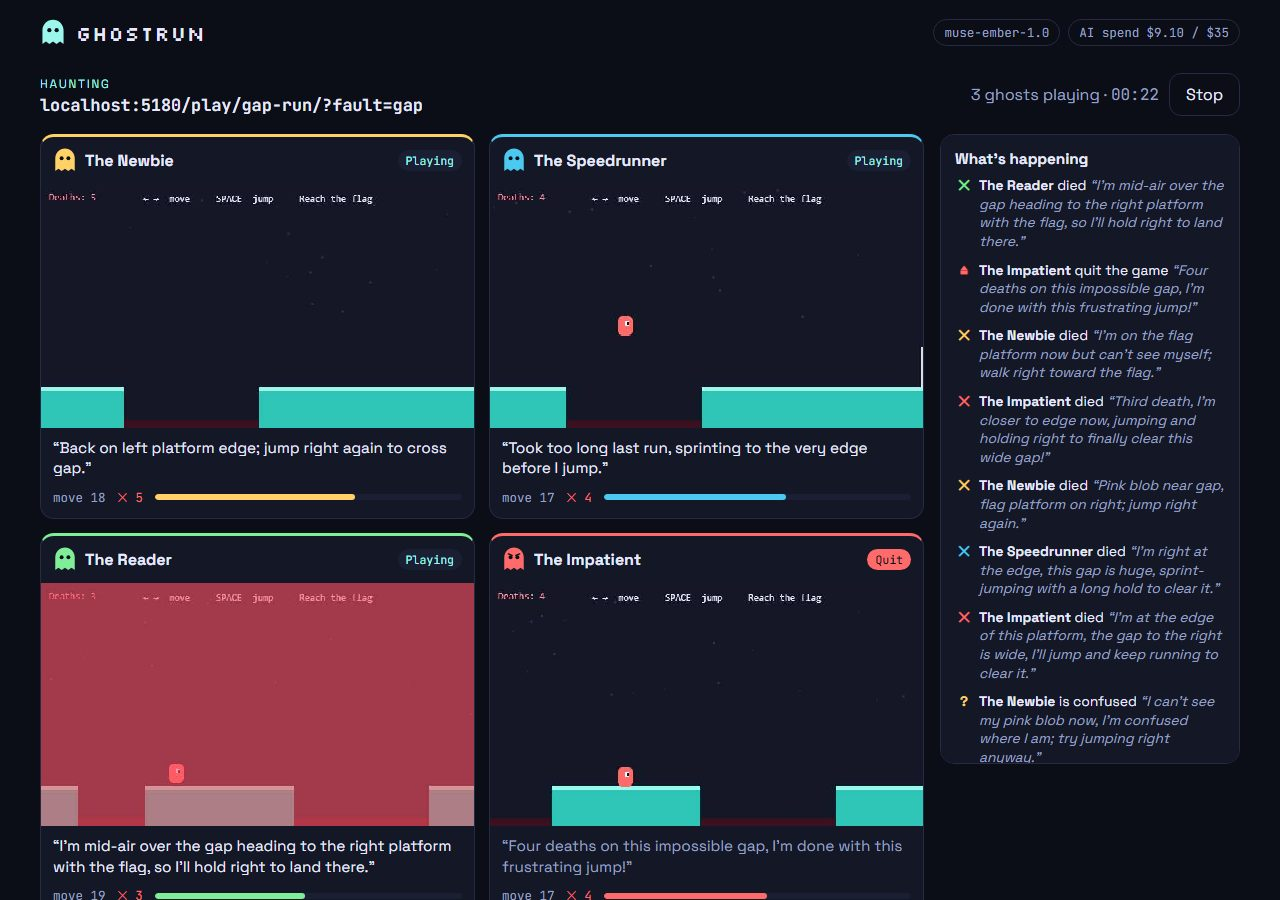
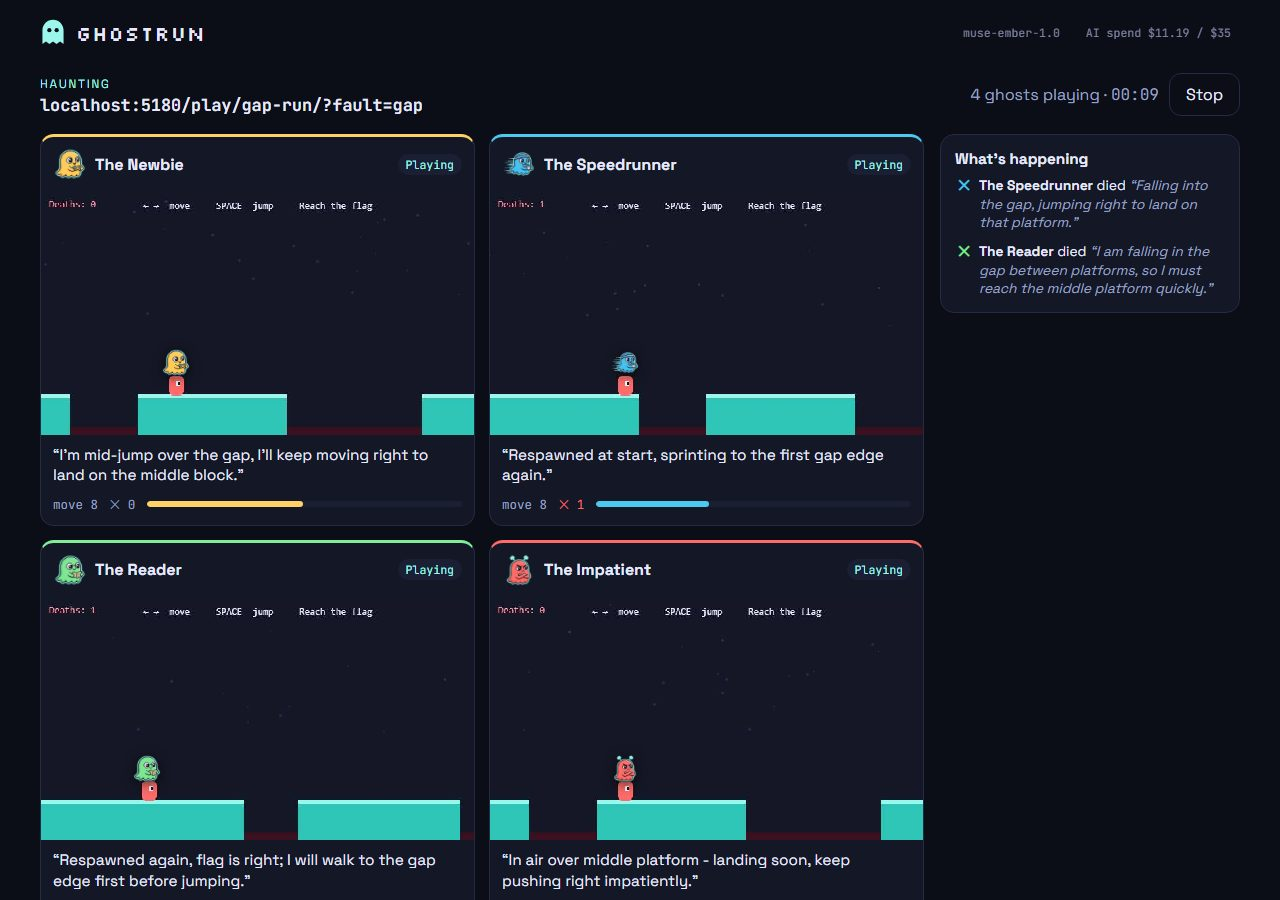
Docs: five benchmark rounds and nine real jam games by other people
- README and benchmark: five rounds, 44/50 flaws found and 0/50 false
  alarms; held out, 26/30 and 0/30.
- outside-games.md: what the ghosts reported on nine js13kGames entries
  against what their players wrote, and the five Ghostrun bugs they exposed.
- ai-review-log: the Muse art, the play analysis, the scout and the design
  review agents.
- failure-handling: real games. New gallery from the current version.

diff --git a/README.md b/README.md
@@ -32,26 +32,27 @@ It is not a small group: the GMTK Game Jam 2025 alone received [more than 9,500 
 
 ## Does it work? (measured, not claimed)
 
-Five small web games, each with a clean version and a version with one planted design flaw whose type and place we know ([benchmark](bench/README.md)), played in three rounds of 20 runs. We changed rules after looking at the first two rounds, so the honest test is the third: played afterwards, and not used to tune anything.
+Five small web games, each with a clean version and a version with one planted design flaw whose type and place we know ([benchmark](bench/README.md)), played in five rounds of 20 runs. We changed the scoring and analysis rules after looking at the first two rounds, so the honest test is rounds 3 to 5: played afterwards, and not used to tune those rules. Rounds 4 and 5 also use the latest ghosts, which play better ([below](#how-the-ai-is-used)).
 
-| | Third round (held out) | All three rounds |
+| | Rounds 3–5 (held out) | All five rounds |
 |---|---|---|
-| Planted flaws found: a critical finding of the right type in the right place | **9/10** | 27/30 (21 from what the ghosts did, 6 from the contrast measurement) |
-| Clean games with a false alarm: the same kind of finding where there is no flaw | **0/10** | 0/30 |
-| Clean games where the report still shows a hard spot ("friction": ghosts died there but got past; counted neither way) | 6/10 | 18/30 |
-| Ghosts that finished the clean games | 78% | 75% |
+| Planted flaws found: a critical finding of the right type in the right place | **26/30** | 44/50 (34 from what the ghosts did, 10 from the contrast measurement) |
+| Clean games with a false alarm: the same kind of finding where there is no flaw | **0/30** | 0/50 |
+| Clean games where the report still shows a hard spot ("friction": ghosts died there but got past; counted neither way) | 17/30 | 29/50 |
+| Ghosts that finished the clean games | 75% | 75% |
 
-- **Cost and time per playtest** (4 ghosts and the analyst): about $0.02 and under a minute on these games (41 s on average; the maze takes about a minute).
+- **Cost and time per playtest** (4 ghosts and the analyst): about $0.02 and under a minute on these games (about 45 s on average; the maze takes about a minute).
 - **People vs ghosts:** every spot where a person died or got stuck was also flagged by the ghosts, 4/4 (2 of them only as friction). One person, the developer, not blind ([details](bench/README.md#people-vs-ghosts)).
 
-One rule decides "found" and "false alarm", so neither can be bought with the other: only critical findings count. "Friction" counts neither way, because it also shows up on clean games at hard but fair spots, and the report labels it as probably fair. The miss of each round is Spike Maze's invisible spikes, which the ghosts reported only as friction. Decided after looking at the first two rounds: counting only critical findings ([why](bench/README.md#the-scoring-rule-we-changed-after-a-review)), the contrast check with our own 1.5:1 line for "practically invisible" (the faint key measures 1.09:1), and treating the deaths at both edges of one wide gap as one spot. With so few runs the uncertainty is wide: 27/30 means 74–97% and 0/30 false alarms means at most 11% (95% intervals).
+One rule decides "found" and "false alarm", so neither can be bought with the other: only critical findings count. "Friction" counts neither way, because it also shows up on clean games at hard but fair spots, and the report labels it as probably fair. The misses are Spike Maze's invisible spikes, which the ghosts sometimes reported only as friction (one run in most rounds, both runs in round 4). Decided after looking at the first two rounds: counting only critical findings ([why](bench/README.md#the-scoring-rule-we-changed-after-a-review)), the contrast check with our own 1.5:1 line for "practically invisible" (the faint key measures 1.09:1), and treating the deaths at both edges of one wide gap as one spot. With so few runs the uncertainty is wide: 26/30 means 70–95% and 0/30 false alarms means at most 11%; over all 50, 76–94% and at most 7% (95% intervals).
 
 | Case | What happened |
 |---|---|
-| Normal: Gap Run, one gap too wide to jump | Blocker at that gap in 6/6 runs (three rounds) |
-| Normal: Key Hunt, key drawn in the floor colour | "Hard to see" (contrast 1.09:1) in 6/6 runs |
-| Repeat: the same 10 variants, played in three separate rounds | 9/10 flaws and 0/10 false alarms in each round (the same miss) |
+| Normal: Gap Run, one gap too wide to jump | Blocker at that gap in 10/10 runs (five rounds) |
+| Normal: Key Hunt, key drawn in the floor colour | "Hard to see" (contrast 1.09:1) in 10/10 runs |
+| Repeat: the same 10 variants, played in five separate rounds | 9/10 flaws in four rounds and 8/10 in one, with 0/10 false alarms in every round |
 | Hard: [NILO](games/third-party/nilo/README.md), a real jam game we did not make, unmodified, no SDK | The ghosts got through its mouse-only menu by themselves, and all four got stuck at the start of level 1. A person confirmed half the diagnosis: the controls are confusing, but the jump was not too hard ([partial success](bench/README.md#hard-case-a-real-jam-game-we-did-not-make)) |
+| Harder: 9 more real jam games by other people (js13kGames), no SDK, compared with what their players wrote | The ghosts agreed with the players in 5 of 9 (1 match, 4 partial), disagreed in 2, failed where people did not in 1 and missed 1 ([table](bench/results/outside-games.md)). They also exposed five Ghostrun bugs, now fixed |
 
 ![A finding card: the key is too faint against the background, with the measured contrast and a replay](docs/img/report-hard-to-see.jpg)
 
@@ -73,10 +74,11 @@ One rule decides "found" and "false alarm", so neither can be bought with the ot
 | **Measure the contrast of objectives** (AI eyes saw a 1.09:1 key that a person could barely see) | The faint-key flaw was missed 4/4 | Found 4/4, no new false alarm when 90 recorded runs (45 of them clean) were re-scored |
 | **Prompt built for Meta's prompt cache**: stable part first, append-only move log, a shared `prompt_cache_key` | 48% of the input served from cache | 70% (cached input costs 25× less) |
 | **Stop a ghost once it has shown enough** (8 deaths at one spot, or 20 moves without new ground) | — | 15% fewer moves on replayed runs, same flaws found |
+| **Teach the ghost how its actions work**: a tap happens at the start of the move, so walk to the edge first and jump next; in a new game, try one key at a time (from an analysis of 5,761 recorded moves) | 16 deaths per clean Gap Run run: 69% of deaths at fair gaps were jumps started too early | 5 per run, the same flaws found (17/20) and no false alarm (0/20), for 4% more cost |
 
 Together, these made a run 17% cheaper for the ghosts and the analyst's cards 47% cheaper, about 25% less per playtest. We also report what we rejected: smaller screenshots (8% cheaper, worse perception), not asking the ghost for its position (13% cheaper, but twice the deaths next to hazards), shorter memory, stricter stops ([tried and rejected](bench/README.md#cheaper-and-better-ghosts)).
 
-**In development.** Ghostrun was built with heavy AI assistance: Claude Code wrote most of the code and documentation under Rafael's direction, and Claude subagents built four of the five test games. Where a person checked AI-made work, what was found and what changed is logged in the [AI review log](docs/ai-review-log.md). For example, a person's review of a real game (R5) showed that a card blamed a platform that was easy to reach, so every card now states its confidence and whether ghost skill could explain it.
+**In development.** Ghostrun was built with heavy AI assistance: Claude Code wrote most of the code and documentation under Rafael's direction, and Claude subagents built four of the five test games. The ghost characters and the two illustrations in the interface were drawn with Meta's image model (`muse-image-1.0`), in a style Rafael chose from five sketches. Where a person checked AI-made work, what was found and what changed is logged in the [AI review log](docs/ai-review-log.md). For example, a person's review of a real game (R5) showed that a card blamed a platform that was easy to reach, so every card now states its confidence and whether ghost skill could explain it.
 
 ## How it is built
 
@@ -130,6 +132,7 @@ Then pick "No game handy? Try ours" on the home page, or paste any web game's li
 
 - **Real:** the ghosts play in real browsers with real model calls; nothing in a run is scripted. Costs come from the usage Meta reports, cached tokens included.
 - **Ours:** the five test games and their planted flaws, so results can be checked against a known answer. They were written with AI help and checked by a person (reviews R1–R2). NILO is a real third-party game, unmodified.
+- **AI-generated art:** the five ghost characters and the two illustrations (error and all-clear) were made with Muse Image. The screenshots in this README and in the reports are real.
 - **Simulated, and labelled:** the "simulate an AI outage" test option, which shows the switch to a backup model. It is off in the public demo.
 - **Small samples:** 2 repetitions per variant per round. The people-vs-ghosts comparison so far is one person (the developer), who had already seen the planted flaws. A blind test with new players is next.
 
@@ -139,6 +142,7 @@ Then pick "No game handy? Try ours" on the home page, or paste any web game's li
 - Ghosts **see faint shapes better than people**. Objectives the game declares are measured for contrast instead; undeclared ones are not.
 - They cannot tell intended difficulty from bad design. They show where players struggle; you decide.
 - Without the SDK, positions are what the ghosts report on screen, so in scrolling games the map is approximate.
+- **On games without the SDK, findings are leads, not verdicts.** On nine real jam games, the ghosts agreed with what players wrote in about half ([table](bench/results/outside-games.md)). With the SDK (our benchmark), they found 44 of 50 planted flaws with no false alarm.
 - **The written cause on a card is the least reliable part.** On recorded runs the analyst explained the too-wide gap correctly in 14 of 14 cards, but found the real cause of Read Me's flaw (instructions that name the wrong key) in only 6 of 12 cards ([every card](bench/results/analyst-blockers.md)). Trust the place, the numbers and the replay; read the cause as a guess to check.
 
 More in [the benchmark's limitations](bench/README.md#limitations).

diff --git a/bench/results/outside-games.md b/bench/results/outside-games.md
@@ -1,0 +1,34 @@
+# Real jam games made by other people (22 Nov 2026)
+
+Nine js13kGames entries, played at their public address (`https://play.js13kgames.com/<game>`), unmodified and without the Ghostrun SDK, so the ghosts only have the pixels. There is no planted flaw here, so no score: instead, we compare what the ghosts reported with what **real players wrote** on each game's js13kGames page (paraphrased; follow the links for their words). A scout agent found and checked the games and collected the comments; a person has not reviewed this table yet.
+
+Current version (the "rounds 4–5" ghosts), 4 ghosts × 40 moves each, about $0.02 per game ($0.21 for the nine).
+
+| Game (author, year, licence) | What players said | What the ghosts reported | Verdict |
+|---|---|---|---|
+| [Escape from Death Hole](https://js13kgames.com/entries/escape-from-death-hole) (Santi Herranz, 2022, MIT) | Missed the sword on level 1; a zombie took the key; wanted more hints at the start; movement felt slow | All four stuck in the dark starting area, not knowing how to get past the monster and leave | **Partial**: both point at an unclear start, but the ghosts never got as far as the sword or the key |
+| [SPACETAXI](https://js13kgames.com/entries/spacetaxi) (Christoph Schansky, 2021, GPL-3.0) | Felt broken until they understood you must land gently (touching a planet kills); wanted a tutorial | All four circled without knowing how to serve customers: "the game never explains it". In an earlier run: "the ship explodes on the planet with no way to continue" | **Match**: no tutorial, and crashing into planets |
+| [Find All Pages](https://js13kgames.com/entries/find-all-pages) (Stacks Hub, 2020, MIT) | Too many keys to remember; wanted a timer; only four levels | All four stuck: the grid never explains how to move | **Partial**: the controls are hard to grasp |
+| [Delete!](https://js13kgames.com/entries/delete) (Clocks-in-a-Cooler, 2020) | Deleting sometimes failed; instructions shown "the other way round"; unclear which feature is selected | Three stuck: could not work out the wall jump and the select-then-delete step | **Partial**: confusing instructions and delete step |
+| [Dead Again](https://js13kgames.com/entries/dead-again) (Jonas Olmstead, 2022, MIT) | Dying sends you back to level 1; unclear ammo and reload; the darkness | Three died and never got past the same spot (cause unclear) | **Weak partial**: dying is the pain point in both, for different reasons |
+| [Moon Buggy Racing](https://js13kgames.com/entries/moon-buggy-racing) (Johan Wigert, 2021) | One player got a black screen; others found the difficulty fine | A blocker: the starting rock field kills after every restart; "Space does not restart" | **No match** (and the restart claim is not checked) |
+| [Big Champ](https://js13kgames.com/entries/big-champ) (Bryan Perfetto, 2020) | Long recovery after a mistake makes the waves unfair; too hard with two characters | Knocked out with no way to restart | **No match** |
+| [Coiner](https://js13kgames.com/entries/coiner) (Hoai Phong, 2019) | The jump is too short to reach the coin quickly | All four never worked out the controls (none are shown on screen) | **Ghost limitation**: people learned the controls |
+| [Backout](https://js13kgames.com/entries/backout) (Emre Guneyler, 2019, MIT) | The arrow keys feel upside down; unclear why the ball slows | Nothing | **Miss** |
+
+**In short:** on games without the SDK, the ghosts' report agreed with real players in 5 of 9 games (1 match, 4 partial), disagreed in 2, failed where people did not in 1, and missed the players' complaint in 1. Read findings on such games as leads to check in the replay, not as verdicts. "Restart does not work" appeared in three games and may be the ghosts' own limit; the ghosts are now told to give game-over screens a second (not yet re-measured).
+
+## What these games broke in Ghostrun, now fixed
+
+Each one made the report blame the game for something that was our fault. All are covered by tests (`test/clicks.test.mjs`, `test/fit.test.mjs`).
+
+| Game | What happened | Fix |
+|---|---|---|
+| Big Champ | Every ghost clicked "Tap" and nothing happened; the report said the start screen never responds. Our clicks pressed and released the button before the game's next frame | A click keeps the button down for 90 ms of game time |
+| Dead Again | Refused as "no game canvas": it creates its canvas 1–3 s after loading | Wait up to 6 s of real time for a canvas |
+| Coiner, Delete!, Moon Buggy Racing, Escape from Death Hole | Their canvases are bigger than the 640×360 window: in Coiner the character was below the screen | Before playing, the game is opened once (no AI) and the window is enlarged to fit its canvas |
+| Big Champ | Its dark start screen with one word was judged "blank" | "Blank" now means barely bigger than an empty page of the same size |
+| Escape from Death Hole | The ghosts pressed Enter every half second while the game needed 1–3 s to start | Ghosts give a title, menu or game-over screen a second to change |
+| Several | Cards stated what the ghosts experienced as facts ("the start keys do nothing") | On games without the SDK, cards say what the ghosts could not do, with low confidence |
+
+Run ids: escape-from-death-hole 2026-11-22T12-47-42-834Z-8579dc64f3 · find-all-pages 2026-11-22T12-47-43-600Z-309a9df2cf · spacetaxi 2026-11-22T12-47-43-982Z-11489772c7 (earlier run 2026-11-22T12-19-05-820Z-545e282be7) · coiner 2026-11-22T12-47-44-000Z-44f669d650 · backout 2026-11-22T12-47-44-021Z-032a859c26 · dead-again 2026-11-22T12-54-58-206Z-c168c0332c · delete 2026-11-22T12-54-58-210Z-49bb01adc6 · moon-buggy-racing 2026-11-22T12-54-58-213Z-b6ae80d505 · big-champ 2026-11-22T13-00-00-127Z-55ad22e031 (after the blank-screen fix).

diff --git a/bench/README.md b/bench/README.md
@@ -48,6 +48,8 @@ Run it yourself: `npm run bench -- --label mine --reps 2` (needs `MODEL_API_KEY`
 | [optimized-v3-holdout](results/optimized-v3-holdout.md) | same code, **fresh runs** (8/10 by the ghosts alone), re-scored with the contrast check | **10/10** | **0/10** | $0.016 billed |
 | optimized-v3 + holdout, **strict rule** | same 40 runs, critical findings only, plus the analysis fixes found by test agents | **18/20** | **0/20** | — |
 | [optimized-v5](results/optimized-v5.md) | the same version, **fresh runs** played after those fixes, strict rule | **9/10** | **0/10** | $0.015 billed |
+| [optimized-v6](results/optimized-v6.md) | ghosts taught how their actions work ([below](#teaching-the-ghosts-how-their-actions-work)), fresh runs | **8/10** | **0/10** | $0.016 billed |
+| [optimized-v7](results/optimized-v7.md) | the same, plus "give a menu a second to change", fresh runs: **the current version** | **9/10** | **0/10** | $0.016 billed |
 
 "Billed" counts cached input at Meta's cached rate; earlier rows are list price (cached tokens were not recorded yet), so compare them with care. Measured with the cache, the old ghosts cost $0.018 per run, not $0.025.
 
@@ -67,6 +69,33 @@ On 21 November (night) we had the project reviewed by ten AI agents playing role
 Now one rule decides both "found" and "false alarm". The two misses are Spike Maze's invisible spikes, which the ghosts only reported as friction in one run of each round. The test agents also found three analysis bugs, fixed and covered by tests: a wide gap whose deaths split into two contradicting findings ("2/4 got past" next to "0/4 got past" for the same gap), ghosts that ended stuck attached to the wrong finding, and single deaths shown as findings. Re-scoring the 90 recorded runs with the fixes changed no result for the worse. A fresh round played after the fixes and not used to tune anything ([optimized-v5](results/optimized-v5.md)) found 9/10 flaws with 0/10 false alarms, like each earlier round, with the same miss. Across the three rounds: **27/30** found, **0/30** false alarms (`node bench/compare.mjs before-cache-v5 optimized-v3-gapfix+optimized-v3-holdout-gapfix+optimized-v5-gapfix`).
 
 Checking the new screenshots afterwards, we found that the merge for wide gaps also joined two neighbouring gaps into one finding: the run-up to the second gap starts where the first gap's area ends, so their areas touched. Now two areas are one place only if they overlap by at least a quarter of the smaller one (the two halves of one wide gap overlapped 54% and 89% in our runs; neighbouring gaps 1–10%). Re-scoring the three rounds with it ("-gapfix"): the same 27/30 and 0/30; in four Gap Run runs a finding that spanned two gaps became two findings.
+
+### Teaching the ghosts how their actions work
+
+On 22 November an analysis agent went through 5,761 recorded moves and 817 deaths (scripts in the review log). The ghosts knew where they were (median error 7 px), but misjudged how their actions work:
+
+- 69% of the deaths at the fair gaps of Gap Run were jumps started too early. A tapped key fires at the start of the move, but the ghosts expected it to wait until they reached the edge. Jumps prepared by a separate "walk to the edge" move crossed 72% of the time; jumps started while still running, 27%.
+- In Spike Maze, a maze with no jump, 28 of 58 fatal moves were planned jumps over spikes.
+- In games without the SDK (NILO), a respawn was never reported as a death.
+
+So the ghosts are now told that a tap happens at the start of the move (walk to the edge first, jump in the next move), to use only the controls the game shows, to try one key at a time in a game they do not know, to give a menu a second to change screens, and that being sent back to the start is a death. Two fresh rounds with these rules (`node bench/compare.mjs optimized-v5 optimized-v6+optimized-v7`):
+
+| | Before (round 3, 20 runs) | After (rounds 4–5, 40 runs) |
+|---|---|---|
+| Flaws found | 9/10 | 17/20 |
+| Clean runs with a false alarm | 0/10 | 0/20 |
+| Deaths per clean Gap Run run | 16 | 5 |
+| Deaths per run, all games | 13.9 | 11.1 |
+| Ghosts that finished the clean games | 78% | 74% |
+| Billed cost per run | $0.0154 | $0.0160 |
+
+Fewer deaths at fair spots, the same detection, slightly more cost (the instructions are longer). The finish rate did not improve: Spike Maze stays at 0%, and one ghost fewer finished in three games, within the noise of 40 ghosts.
+
+**Across all five rounds** (100 runs): **44/50** flaws found (76–94%), **0/50** false alarms (at most 7%); 34 found by what the ghosts did, 10 by the contrast measurement (`node bench/compare.mjs before-cache-v5 optimized-v3-gapfix+optimized-v3-holdout-gapfix+optimized-v5-gapfix+optimized-v6+optimized-v7`).
+
+## Real jam games made by other people
+
+The five benchmark games are ours. To see how the ghosts do on games nobody tuned anything for, we played nine js13kGames entries by other people at their public address, without the SDK, and compared the reports with what real players wrote on each game's page ([table and links](results/outside-games.md)). The ghosts agreed with the players in 5 of 9 games (1 match, 4 partial), disagreed in 2, failed where people did not in 1 (they never worked out Coiner's controls), and missed the players' complaint in 1 (Backout's arrows feel upside down). These games also exposed five bugs in Ghostrun, each of which made a report blame the game: clicks too short for games that read the mouse each frame, canvases created late, canvases bigger than the window, a near-empty start screen judged blank, and ghosts not waiting for menus. All are fixed and tested.
 
 ## Perception: does the model see its own character?
 

diff --git a/docs/ai-review-log.md b/docs/ai-review-log.md
@@ -30,4 +30,8 @@ These are listed for transparency. Each was found by running the code, not by re
 | 2026-11-21 | Unused answer fields in games with the SDK | Without the position and "what I see" fields: output 263 → 229 tokens per move and a round 13% cheaper, but ghosts died twice as often by Spike Maze's spikes and 2 of 6 clean maze runs got a false alarm (0 of 8 with the fields) | **Rejected**: kept the fields |
 | 2026-11-21 | **Ten test agents** (Claude Haiku) playing a jam developer, a teenager in a hurry, a phone user, a teacher, an attacker, four rubric judges and a skeptical engineer, using the real app through a headless-browser driver (`scripts/drive.mjs`) or reading the code | Real: a wide gap split into two contradicting findings, stuck ghosts on the wrong finding, one-death findings, a "found" rule that also fired on clean games (the 20/20 was really 18/20), cards telling students to narrow gaps most ghosts crossed, `/runs//humans/` readable, a forgeable visitor address, no message for a wrong link, overflow on phones, old screenshots with the old name. Not real: "the card invented that the key looked faint" (the ghosts did say it; the card just did not show their words, now it does) | Fixed each real one with a test; numbers re-scored with the strict rule; second round of agents on the fixed version |
 | 2026-11-22 | **Second round: ten new test agents** (Claude Haiku) that had not seen the first, on the corrected version: a jam developer, a Spanish teenager who reads English at A2 level, a phone-only user, a keyboard-only user with low vision, an attacker, a skeptical ML researcher and four rubric judges | Checked one by one before changing anything. Real: choosing a test game did not fill in the link (2 agents); the live view froze if its stream dropped; the analyst blamed the size of Read Me's pit instead of its wrong key; ghost buttons announced as tabs without arrow keys, control borders at 1.38:1, unnamed canvases and progress bars, one page title for every screen; five security holes (paths in another case on Windows, the playing run's id in `/api/config`, local-use NAT64, overwritable sessions, WebSockets); headline numbers that mixed the rounds used to set the rules with the held-out one; numbers in the submission text that did not match its screenshots. Not reproduced: 404s on ghost traces. Not changed: the order of the home form (the main button stays next to the link) | Fixed, with tests where it can be tested. The README and the benchmark now lead with the held-out round and show friction on clean games and 95% intervals. The analyst change was measured on 13 recorded blockers: the gap explanation went from 6/7 to 7/7 right in two runs, the wrong-key explanation stayed unreliable (1/6, then 5/6 and 1/6), and the README says so ([every card](../bench/results/analyst-blockers.md)) |
+| 2026-11-22 | **Ghost characters and illustrations** (Muse Image, `muse-image-1.0`) | Five sketches of the same ghost in five styles (pixel, clay, vector, neon, painted); Rafael chose pixel. The other four ghosts and two illustrations (error, all clear) were then made with the chosen one as reference, 11 images in all | **Rafael's choice** decided the style; the art is declared as AI-made in the README |
+| 2026-11-22 | **Play analysis agent**: 5,761 recorded moves and 817 deaths, read with its own scripts (no API calls) | Ghosts knew where they were (median error 7 px) but misjudged their actions: 69% of the deaths at fair gaps were jumps started too early, because a tap fires at the start of the move; 28 of 58 fatal moves in the maze were planned jumps in a game with no jump; respawns were never reported as deaths | Changed the ghosts' rules. Two fresh rounds: deaths per clean Gap Run run 16 → 5, flaws found 17/20, false alarms 0/20, +4% cost ([benchmark](../bench/README.md#teaching-the-ghosts-how-their-actions-work)). Kept |
+| 2026-11-22 | **Scout agent** found nine real js13kGames entries by other people, checked that each loads, and collected what their players wrote | Played with the ghosts: the reports agreed with the players in 5 of 9 games. The games exposed five Ghostrun bugs, each making a report blame the game (instant clicks, canvas created late, canvas bigger than the window, a near-empty screen judged blank, no patience on menus); found by checking each suspicious finding by hand in a headless browser | Fixed with tests; the honest table is published ([outside games](../bench/results/outside-games.md)); cards on games without the SDK now state the ghosts' experience, not a fact |
+| 2026-11-22 | **Design review agent** (product designer role) on every screen | Ten problems: the demo's hero had no style, the report opened without a verdict, the heat glow burned to white, the persona cards printed the AI prompt, the still picture for reduced motion put two ghosts in the sky, errors were off-brand… | Adopted: verdict first, game name as title, labelled sections and a colour legend, capped heat, card ↔ box highlighting, ghost cast with "asleep" ghosts, home sections with real screenshots, illustrated error and all-clear states, fixes for both bugs. Not adopted: a new colour system (the ghost colours stay) and a pixel dissolve for before/after |
 | 2026-11-21 | Ghosts told what each move did | Better players (74% finish clean games vs 60%), but they now reach Key Hunt's faint key (contrast 1.09:1) that R2 said a person "can't see, or barely": AI eyes see faint shapes people miss, so the flaw went from found to missed (0/2) | Kept the better ghosts and added a **measured contrast check** (WCAG 3:1) for objectives; flaw found again, no new false alarm when 90 recorded runs (45 clean) were re-scored |

diff --git a/docs/failure-handling.md b/docs/failure-handling.md
@@ -56,6 +56,16 @@ The ghosts' browser runs on our server, so a visitor's link could point it at th
 
 Also in any mode: a run that takes longer than 8 minutes is stopped (`RUN_TIMEOUT_MS`); paths outside the runs folder are refused; malformed requests get a 400, not a server error; live streams send a heartbeat every 20 s so proxies do not cut them, and if one drops anyway the live view opens it again and catches up from the start of the run (a test agent's live view froze after a dropped stream; checked by cutting the network for 5 s mid-run); finished runs drop their frame-by-frame events from memory (the 30 most recent stay, older ones are read from disk); the spending file is written atomically; on restart the active run is stopped cleanly.
 
+## 5. A real game behaves in a way the ghosts did not expect (found on games by other people)
+
+Nine real js13kGames entries ([results](../bench/results/outside-games.md)) each broke Ghostrun in a way that made the report blame the game. Each is now handled, with a test:
+
+- **The game reads the mouse once per frame**: a click now keeps the button down for 90 ms of game time (before, Big Champ never saw it and the report said its start screen does not respond).
+- **The canvas appears after loading**: up to 6 s of real time are given (Dead Again made its canvas 1–3 s after "load" and was refused).
+- **The canvas is bigger than the window**: the game is opened once before playing, without AI, and the window is enlarged to show the whole canvas, up to 1024×768; the report says so (Coiner's character was below the 640×360 screen).
+- **A start screen with almost nothing on it**: "blank" now means barely bigger than an empty page of the same size (Big Champ's dark "Tap" screen was refused).
+- **On games without the SDK**, cards describe what the ghosts could not do ("the ghosts could not get Enter to start the game") with low confidence, instead of stating it as a fact about the game.
+
 ## Other safeguards
 
 - **One ghost fails completely:** the others keep playing and the report is built from the ghosts that played. If every ghost fails, the run ends with the first error message.
